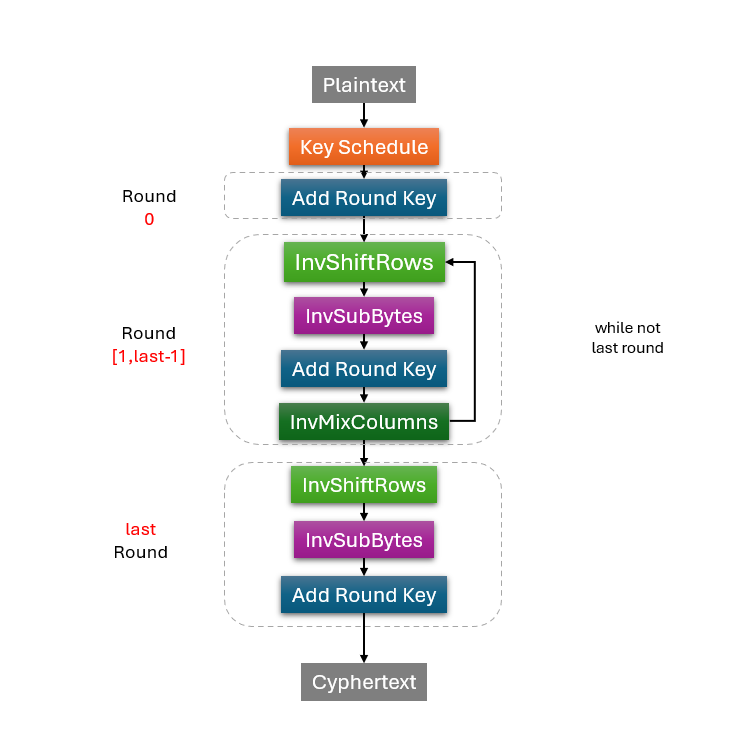
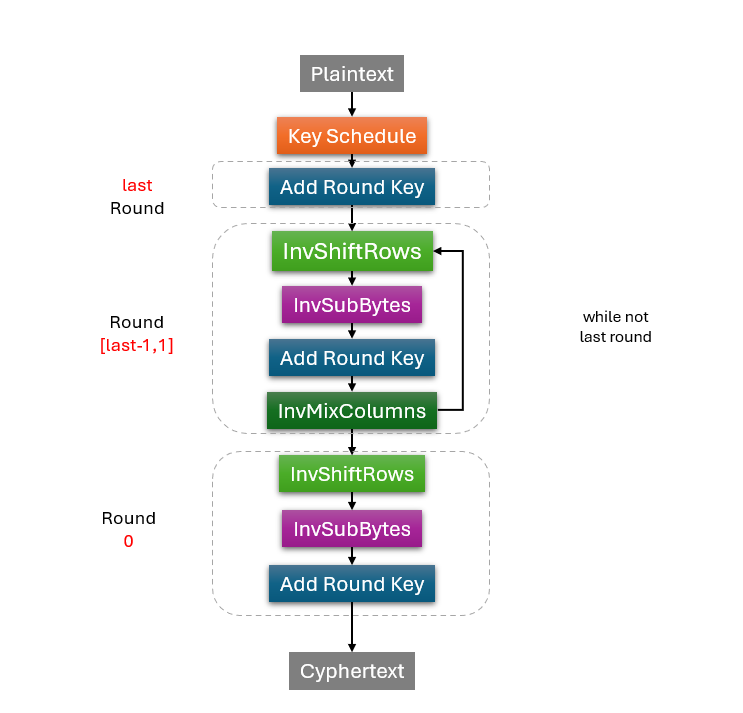
fixed learn more scrolling and png no4

diff --git a/src/styles/LearnMore.css b/src/styles/LearnMore.css
@@ -1,6 +1,10 @@
 /* Styles for LearnMore page: full-height sections with scroll-snap and keyboard navigation */
 .learn-page-root {
   padding: 0;
+  min-height: 100vh;
+  display: flex;
+  flex-direction: column;
+  overflow: hidden; /* prevent body/page scrollbar while inner container scrolls */
 }
 
 .learn-header {
@@ -11,6 +15,7 @@
   display: flex;
   flex-direction: column;
   align-items: center;
+  flex: 0 0 auto;
 }
 
 .learn-sub {
@@ -19,7 +24,7 @@
 }
 
 .learn-container {
-  height: calc(100vh - 64px);
+  flex: 1 1 auto;
   overflow-y: auto;
   scroll-snap-type: y mandatory;
   /* ensure last content isn't hidden behind floating controls */
@@ -30,7 +35,7 @@
 
 .learn-section {
   scroll-snap-align: start;
-  min-height: calc(100vh - 64px);
+  min-height: 100%;
   display: flex;
   align-items: center;
   justify-content: center;
@@ -150,7 +155,6 @@
     bottom: 8px;
   }
   .learn-container {
-    height: calc(100vh - 104px);
     /* less padding on small screens */
     padding-bottom: 140px;
   }

diff --git a/src/pages/LearnMore.jsx b/src/pages/LearnMore.jsx
@@ -60,6 +60,18 @@ function LearnMore() {
     return () => window.removeEventListener('keydown', onKey);
   }, []);
 
+  // prevent the outer page from scrolling while inside this full-height view
+  useEffect(() => {
+    const prevHtmlOverflow = document.documentElement.style.overflow;
+    const prevBodyOverflow = document.body.style.overflow;
+    document.documentElement.style.overflow = 'hidden';
+    document.body.style.overflow = 'hidden';
+    return () => {
+      document.documentElement.style.overflow = prevHtmlOverflow;
+      document.body.style.overflow = prevBodyOverflow;
+    };
+  }, []);
+
   const scrollToIndex = (i) => {
     const container = containerRef.current;
     const el = refs.current[i];
